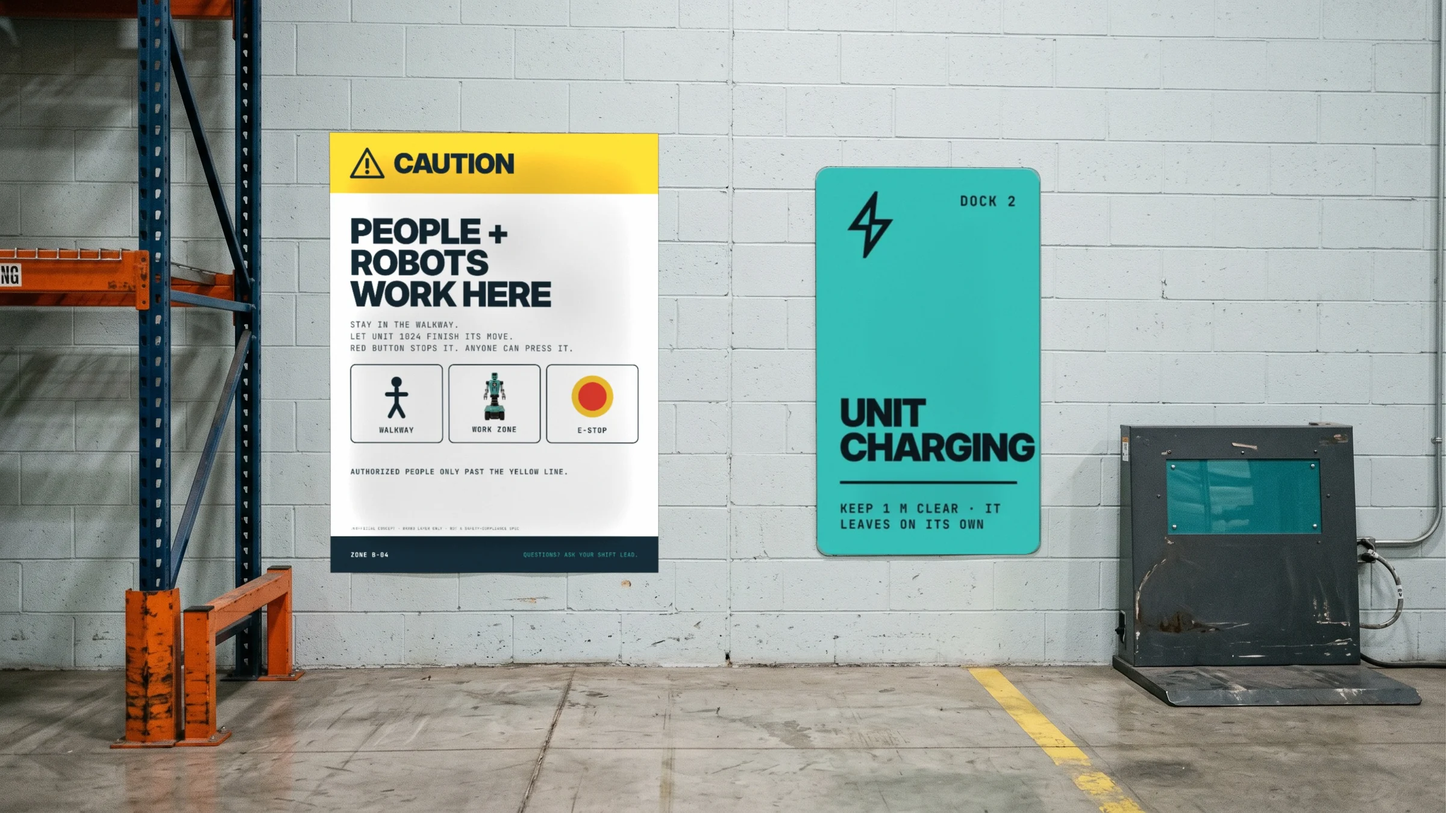
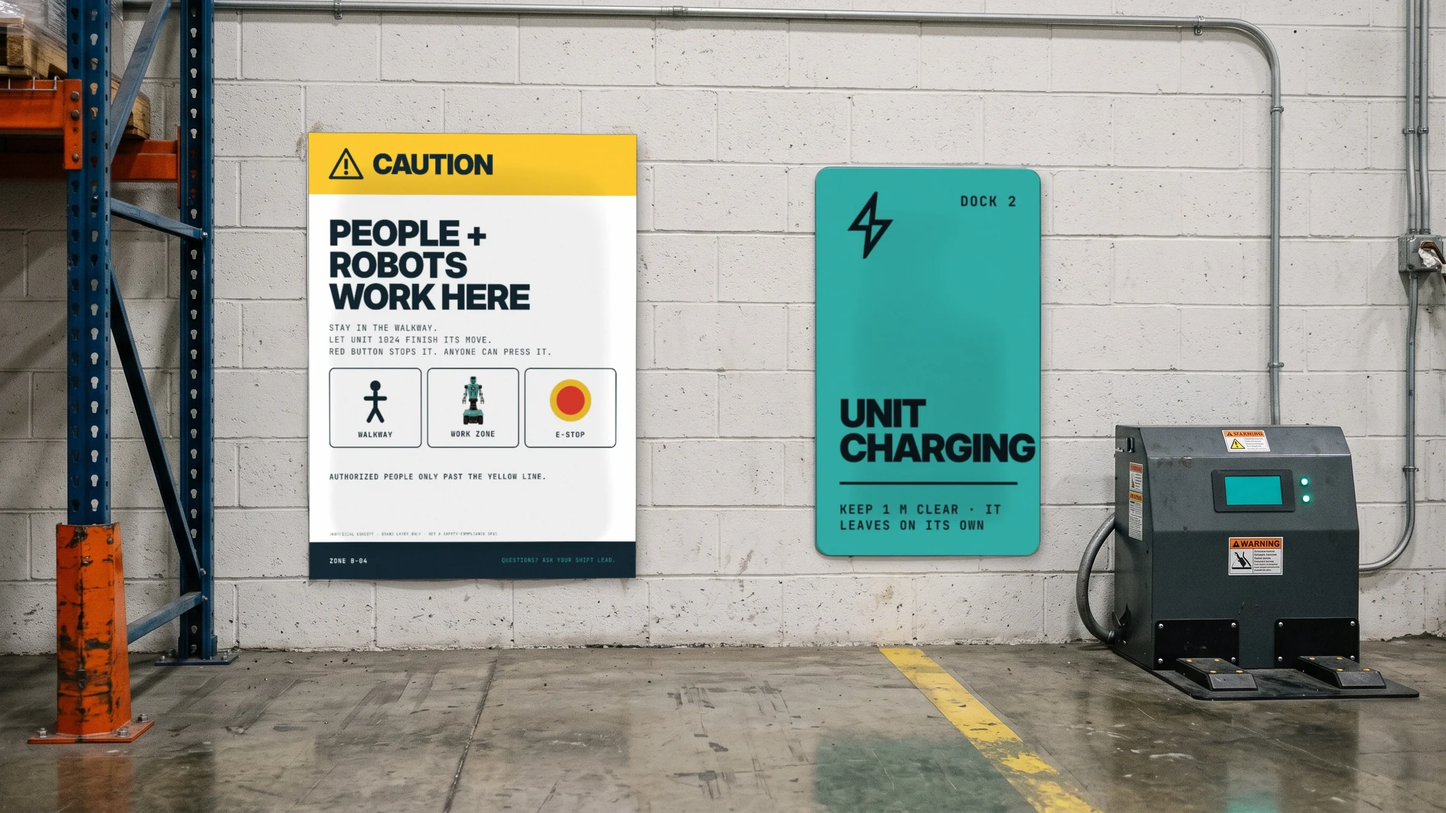
Robot Perforation: On the robot close-ups (Vizcom: chest states, visor, unit plate); realistic booth + charging-wall renders
Claude-Session: https://claude.ai/code/session_01TNyScwJnzqpCZzMWvbHjEJ

diff --git a/robot-perforation/index.html b/robot-perforation/index.html
@@ -259,13 +259,29 @@ body{background:var(--paper);color:var(--ink)}
 .won canvas{width:88px;height:88px;border-radius:12px;background:#132630}
 .won p{margin:0;flex:1 1 320px;font-size:15.5px;line-height:1.5}
 .won b{text-transform:uppercase;font-weight:900}
+
+/* on the robot */
+.orb-tri{display:grid;grid-template-columns:repeat(3,minmax(0,1fr));gap:14px}
+@media(max-width:900px){.orb-tri{grid-template-columns:1fr}}
+.orb-tri figure,.orb-two figure{margin:0;background:#0b1317;border-radius:16px;overflow:hidden;color:#e4e8ea}
+.orb-tri img,.orb-two img{display:block;width:100%;height:auto}
+.orb-tri figcaption,.orb-two figcaption{padding:14px 16px 16px}
+.orb-tri b,.orb-two b{display:flex;align-items:center;gap:8px;font-weight:900;text-transform:uppercase;font-size:18px;letter-spacing:.01em}
+.orb-tri b i{width:12px;height:12px;border-radius:50%;display:inline-block}
+.orb-tri span,.orb-two span{display:block;font-family:var(--mono);font-size:12px;letter-spacing:.06em;color:#b5c3c9;margin-top:6px;line-height:1.5}
+.orb-two{display:grid;grid-template-columns:repeat(2,minmax(0,1fr));gap:14px;margin-top:14px}
+@media(max-width:900px){.orb-two{grid-template-columns:1fr}}
+.orb-key{display:grid;grid-template-columns:repeat(4,minmax(0,1fr));gap:10px;margin:0 0 18px}
+@media(max-width:900px){.orb-key{grid-template-columns:1fr 1fr}}
+.orb-key div{border-top:2px solid var(--ink);padding-top:8px;font-size:14.5px;line-height:1.45;color:#2c3f48}
+.orb-key div b{display:block;font-family:var(--mono);font-size:11px;letter-spacing:.12em;color:#17625f;text-transform:uppercase;margin-bottom:4px}
 </style>
 </head>
 <body>
 <a href="#main" class="mono" style="position:absolute;left:-999px">Skip to content</a>
 <nav class="nav" aria-label="ROBOT PERFORATION sections"><div class="wrap">
  <a href="https://tigrestudiodesign.github.io/" style="text-decoration:none"><b>TIGRE STUDIO</b> <span class="mono">/ ROBOT PERFORATION</span></a>
- <ul><li><a href="#film">Film</a></li><li><a href="#turntable">Turntable</a></li><li><a href="#vision">Robot vision</a></li><li><a href="#brief">Brand brief</a></li><li><a href="#identity">Identity</a></li><li><a href="#system">System</a></li><li><a href="#details">Details</a></li><li><a href="#onsite">On site</a></li><li><a href="#inuse">In use</a></li><li><a href="#livery">Livery</a></li><li><a href="#pipeline">Pipeline</a></li><li><a href="#set">The set</a></li><li><a href="https://tigrestudiodesign.github.io/">Portfolio ↗</a></li></ul>
+ <ul><li><a href="#film">Film</a></li><li><a href="#turntable">Turntable</a></li><li><a href="#vision">Robot vision</a></li><li><a href="#brief">Brand brief</a></li><li><a href="#identity">Identity</a></li><li><a href="#system">System</a></li><li><a href="#details">Details</a></li><li><a href="#onrobot">On the robot</a></li><li><a href="#onsite">On site</a></li><li><a href="#inuse">In use</a></li><li><a href="#livery">Livery</a></li><li><a href="#pipeline">Pipeline</a></li><li><a href="#set">The set</a></li><li><a href="https://tigrestudiodesign.github.io/">Portfolio ↗</a></li></ul>
 </div></nav>
 <div class="stripe"></div>
 <main id="main">
@@ -294,7 +310,7 @@ body{background:var(--paper);color:var(--ink)}
   <div>
    <div class="pics">
     <figure class="w"><img src="img/rp__id_4.webp" alt="Fleet sheet: twenty unit marks, each a different perforation field around the same teal chevron, with unit numbers below" width="2200" height="1375" loading="lazy"><figcaption>01 · EVERY UNIT ITS OWN MARK</figcaption></figure>
-    <figure><img src="img/rp__id_5.webp" alt="The mark applied to the robot: chest display and base-plate decal callouts" width="2200" height="1375" loading="lazy"><figcaption>02 · ON THE MACHINE</figcaption></figure>
+    <figure><img src="img/rp__cu_chest_slow.webp" alt="Close-up of the robot chest display showing SLOWING, PERSON NEAR, with a yellow status bar" width="2400" height="1340" loading="lazy"><figcaption>02 · ON THE MACHINE</figcaption></figure>
     <figure><img src="img/rp__onsite_robot.webp" alt="The robot in a warehouse aisle behind the STOP &amp; LOOK floor decal, with the ZONE B-04 sign above" width="2400" height="1340" loading="lazy"><figcaption>03 · ON THE FLOOR</figcaption></figure>
    </div>
    <div class="cta"><a class="p" href="#film">▶ Watch the 78 s film</a><a href="#identity">Try a unit number</a><a href="system/">Open the design system ↗</a><a href="UNIT-1024-Two-Pager.pdf" download>Two-page PDF ↓</a></div>
@@ -496,12 +512,34 @@ body{background:var(--paper);color:var(--ink)}
 </div></section>
 
 
+
+<section class="sec" id="onrobot"><div class="wrap">
+ <div class="sec-h"><h2>ON THE ROBOT: <em>THE SYSTEM IN ACTION</em></h2><span class="mono">Close-ups · chest display, status bar, shoulder lights, visor, unit plate</span></div>
+ <p style="max-width:780px;font-size:17px;line-height:1.55;margin:0 0 20px;color:#2c3f48">The brand only matters if a person on the floor can read it in a second. So the same three states run on every surface of the robot at once: the chest display says it in words, the status bar shows speed as a length, the shoulder lights and visor carry the colour to the sides and the face.</p>
+ <div class="orb-key">
+  <div><b>Chest display</b>State, distance and the unit mark, readable at 3 m.</div>
+  <div><b>Status bar</b>A speed bar: full when working, short when slowing, a single dot when stopped.</div>
+  <div><b>Shoulder + visor</b>Same colour as the display, so the state reads from the side and the front.</div>
+  <div><b>E-stop</b>Red with a yellow ring on the left shoulder, never used as decoration.</div>
+ </div>
+ <div class="orb-tri">
+  <figure><img src="img/rp__cu_chest_ok_sq.webp" alt="Close-up of the robot's chest: the display shows WORKING in green with the teal unit mark and 1024; the status bar above is lit green at full length" width="1000" height="1000" loading="lazy"><figcaption><b><i style="background:#39d353"></i>Working</b><span>Nothing in the lane. Status bar full, speed 100%.</span></figcaption></figure>
+  <figure><img src="img/rp__cu_chest_slow_sq.webp" alt="Close-up of the chest display showing SLOWING in yellow, PERSON NEAR, I SEE YOU 2.4 M; the status bar is lit yellow at less than half length" width="1000" height="1000" loading="lazy"><figcaption><b><i style="background:#f2c230"></i>Slowing</b><span>Person inside 3.2 m. Bar shortens, speed 40%, it says how far you are.</span></figcaption></figure>
+  <figure><img src="img/rp__cu_chest_wait_sq.webp" alt="Close-up of the chest display showing WAITING in red, STOPPED FOR YOU, AFTER YOU 1.2 M; the status bar shows only a red dot and the shoulder lights are red" width="1000" height="1000" loading="lazy"><figcaption><b><i style="background:#e23b2e"></i>Waiting</b><span>Person inside 1.6 m. It stops and lets you go first. Speed 0%.</span></figcaption></figure>
+ </div>
+ <div class="orb-two">
+  <figure><img src="img/rp__cu_head.webp" alt="Close-up of the robot's head: the visor shows two yellow eyes looking toward a person and the words I SEE YOU 2.4 M; the side lights glow yellow" width="2400" height="1350" loading="lazy"><figcaption><b>Visor · I see you</b><span>When it slows, the eyes turn toward the person and the visor gives the distance. You know it has seen you.</span></figcaption></figure>
+  <figure><img src="img/rp__cu_base.webp" alt="Close-up of the tracked base: a dark unit plate with the teal mark, UNIT 1024, SLOWS AT 3.2 M · WAITS AT 1.6 M, and a yellow strip reading KEEP 1 M CLEAR WHEN MOVING, E-STOP ON SHOULDER" width="2400" height="1350" loading="lazy"><figcaption><b>Unit plate · on the base</b><span>The rules printed where people look down: who it is, when it slows, when it waits, where the E-stop is.</span></figcaption></figure>
+ </div>
+ <p class="mono" style="margin-top:14px;max-width:900px;line-height:1.6">How these were made: close-up crops of the Rhino model rendered in Vizcom, then the real screen layouts, light states and plate artwork placed back on top in perspective, so every word and number is the actual design. Visualizations of a concept, not photos of a working robot.</p>
+</div></section>
+
 <section class="sec" id="onsite"><div class="wrap">
  <div class="sec-h"><h2>ON SITE: <em>THE PRINT KIT</em></h2><span class="mono">Floor decal · zone blade · wall poster · dock panel · visualized in Vizcom</span></div>
  <p style="max-width:760px;font-size:17px;line-height:1.55;margin:0 0 22px;color:#2c3f48">A brand for robots that work next to people lives on the floor, not on a screen. Here the print kit is shown where it would actually go: a STOP &amp; LOOK decal where the aisle meets the robot lane, a zone blade hung at 3.2 m, and the caution poster beside a charging dock.</p>
  <div style="display:grid;gap:16px">
   <figure style="margin:0"><img src="img/rp__onsite_robot.webp" alt="UNIT 1024, the teal tracked robot, working down a warehouse aisle with orange pallet racking. In the foreground, the round STOP &amp; LOOK floor decal; above the aisle hangs the ZONE B-04 sign" width="2400" height="1340" loading="lazy" style="display:block;width:100%;height:auto;border-radius:16px"><figcaption class="mono" style="margin-top:8px">01 · AISLE · 600 mm Ø anti-slip floor decal + double-sided zone blade, 450 × 760 mm</figcaption></figure>
-  <figure style="margin:0"><img src="img/rp__onsite_wall.webp" alt="A painted block wall in a warehouse: a white CAUTION, PEOPLE + ROBOTS WORK HERE poster and a teal UNIT CHARGING, DOCK 2 panel above a grey charging dock" width="2400" height="1350" loading="lazy" style="display:block;width:100%;height:auto;border-radius:16px"><figcaption class="mono" style="margin-top:8px">02 · CHARGING BAY · caution poster + dock panel, 450 × 600 mm</figcaption></figure>
+  <figure style="margin:0"><img src="img/rp__onsite_wall.webp?v=2" alt="A painted block wall in a warehouse: a white CAUTION, PEOPLE + ROBOTS WORK HERE poster and a teal UNIT CHARGING, DOCK 2 panel above a grey charging dock" width="2400" height="1350" loading="lazy" style="display:block;width:100%;height:auto;border-radius:16px"><figcaption class="mono" style="margin-top:8px">02 · CHARGING BAY · caution poster + dock panel, 450 × 600 mm</figcaption></figure>
  </div>
  <p class="mono" style="margin-top:14px;max-width:900px;line-height:1.6">How these were made: I blocked out each scene in perspective (with the robot from my Rhino model), rendered it in Vizcom, then placed the actual print files back on top in perspective, so every word and mark is the real artwork, not regenerated. These are visualizations, not photos of a real site.</p>
 </div></section>
@@ -528,7 +566,7 @@ body{background:var(--paper);color:var(--ink)}
 
 
  <div class="rg" id="r01">
-  <div><button class="shot" type="button" aria-label="Enlarge: 10 by 10 foot inline booth, concept view"><img src="img/rp__r_booth_view.webp" alt="Concept view of a 10 by 10 foot inline trade-show booth: back wall with the headline THE HEAVY, THE DULL, THE REPEAT. and the teal robot, a dark header, a teal-trimmed side wall and a demo counter" loading="lazy"></button>
+  <div><button class="shot" type="button" aria-label="Enlarge: 10 by 10 foot inline booth on a show floor"><img src="img/rp__r_booth_view.webp?v=2" alt="A 10 by 10 foot inline trade-show booth on a busy exhibition floor: fabric back wall with the headline THE HEAVY, THE DULL, THE REPEAT. and the teal robot, a navy side wall, and a white counter reading UNIT 1024, ASK FOR A DEMO. Visualized in Vizcom with the real artwork placed on top" width="2200" height="1228" loading="lazy"></button>
    <div class="g2" style="margin-top:10px"><button class="shot" type="button" aria-label="Enlarge: Booth back-wall artwork"><img src="img/rp__r_booth_wall.webp" alt="Back-wall artwork, 10 by 8 feet, flat" loading="lazy"></button><button class="shot" type="button" aria-label="Enlarge: Headline detail at full size"><img src="img/rp__r_booth_detail.webp" alt="Detail crop of the back-wall headline and body copy, as printed" loading="lazy" style="aspect-ratio:5/4;object-fit:cover"></button></div></div>
   <div><span class="k">01 · EVENTS</span><h3>TRADE-SHOW BOOTH</h3><p>One headline you can read from the aisle, the robot at true presence, and a footer that tells people when to come back. The wall carries the message; the demo carries the proof.</p>
    <table class="fab"><tbody>
